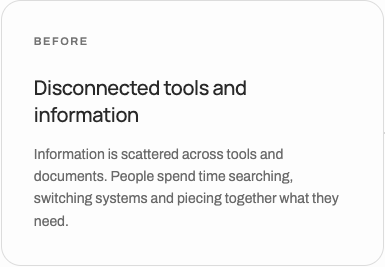
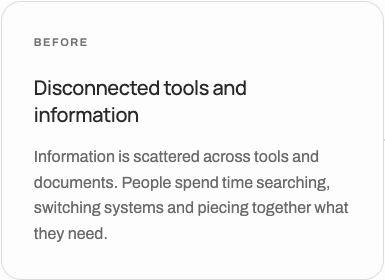
Publish updated body, helper and button typography

diff --git a/design-library.html b/design-library.html
@@ -19,7 +19,7 @@
 <div><div class="swatch" style="background:#fdfdfd"></div><strong>Paper</strong><code>--paper</code><small>#FDFDFD</small></div>
 </div></section>
 <section class="block" id="typography"><h2>Typography</h2>
-<p class="note">Manrope for headings. Archivo for body text, labels and actions.</p>
+<p class="note">Manrope for headings. Archivo Body (16px) for introductions, descriptions and prose. Archivo Small (14px) for helper text, office contact details, result counts and explanatory notes.</p>
 <div class="scroller"><table class="measures"><thead><tr><th>Text style</th><th>Token</th><th>Desktop rule</th><th>Mobile rule</th></tr></thead><tbody>
 <tr><td data-label="Text style"><span style="font:700 72px/1.15 Manrope">Display</span></td><td data-label="Token"><code>--type-display</code></td><td data-label="Desktop rule">clamp(44px,5.1vw,72px)</td><td data-label="Mobile rule">43px</td></tr>
 <tr><td data-label="Text style"><span style="font:500 64px/1.15 Manrope">Contact</span></td><td data-label="Token"><code>--type-contact</code></td><td data-label="Desktop rule">clamp(42px,4.7vw,64px)</td><td data-label="Mobile rule">43px</td></tr>
@@ -27,9 +27,10 @@
 <tr><td data-label="Text style"><span style="font:500 22px/1.15 Manrope">Title</span></td><td data-label="Token"><code>--type-title</code></td><td data-label="Desktop rule">22px</td><td data-label="Mobile rule">22px</td></tr>
 <tr><td data-label="Text style"><span style="font:500 20px/1.15 Manrope">Diagram</span></td><td data-label="Token"><code>--type-diagram</code></td><td data-label="Desktop rule">20px</td><td data-label="Mobile rule">20px</td></tr>
 <tr><td data-label="Text style"><span style="font:400 22px/1.15 Archivo">Quote</span></td><td data-label="Token"><code>--type-quote</code></td><td data-label="Desktop rule">22px</td><td data-label="Mobile rule">22px</td></tr>
-<tr><td data-label="Text style"><span style="font:400 16px/1.15 Archivo">Lead</span></td><td data-label="Token"><code>--type-lead</code></td><td data-label="Desktop rule">16px</td><td data-label="Mobile rule">15px</td></tr>
-<tr><td data-label="Text style"><span style="font:400 16px/1.15 Archivo">Body</span></td><td data-label="Token"><code>--type-body</code></td><td data-label="Desktop rule">16px</td><td data-label="Mobile rule">15px</td></tr>
+<tr><td data-label="Text style"><span style="font:400 16px/1.15 Archivo">Lead</span></td><td data-label="Token"><code>--type-lead</code></td><td data-label="Desktop rule">16px</td><td data-label="Mobile rule">16px</td></tr>
+<tr><td data-label="Text style"><span style="font:400 16px/1.15 Archivo">Body</span></td><td data-label="Token"><code>--type-body</code></td><td data-label="Desktop rule">16px</td><td data-label="Mobile rule">16px</td></tr>
 <tr><td data-label="Text style"><span style="font:400 14px/1.15 Archivo">Small</span></td><td data-label="Token"><code>--type-small</code></td><td data-label="Desktop rule">14px</td><td data-label="Mobile rule">14px</td></tr>
+<tr><td data-label="Text style"><span style="font:500 14px/1.15 Archivo">Button</span></td><td data-label="Token"><code>--type-button</code></td><td data-label="Desktop rule">14px</td><td data-label="Mobile rule">14px</td></tr>
 <tr><td data-label="Text style"><span style="font:400 13px/1.15 Archivo">Action</span></td><td data-label="Token"><code>--type-action</code></td><td data-label="Desktop rule">13px</td><td data-label="Mobile rule">13px</td></tr>
 <tr><td data-label="Text style"><span style="font:400 12px/1.15 Archivo">Caption</span></td><td data-label="Token"><code>--type-caption</code></td><td data-label="Desktop rule">12px</td><td data-label="Mobile rule">12px</td></tr>
 <tr><td data-label="Text style"><span style="font:400 11px/1.15 Archivo">Label</span></td><td data-label="Token"><code>--type-label</code></td><td data-label="Desktop rule">11px</td><td data-label="Mobile rule">11px</td></tr>
@@ -79,7 +80,7 @@
 <dt>Layout gap</dt><dd>28px</dd>
 </dl><details><summary>Full measurements</summary><dl>
 <dt>Margin</dt><dd>0px</dd>
-<dt>Width</dt><dd>262.109px</dd>
+<dt>Width</dt><dd>275.047px</dd>
 <dt>Height</dt><dd>48px</dd>
 <dt>Top border</dt><dd>0px none rgb(253, 253, 253)</dd>
 <dt>Grid columns</dt><dd>none</dd>
@@ -92,7 +93,7 @@
 <dt>Layout gap</dt><dd>28px</dd>
 </dl><details><summary>Full measurements</summary><dl>
 <dt>Margin</dt><dd>0px</dd>
-<dt>Width</dt><dd>200.781px / 262.109px</dd>
+<dt>Width</dt><dd>208.828px / 275.047px</dd>
 <dt>Height</dt><dd>48px</dd>
 <dt>Top border</dt><dd>1px solid rgb(41, 41, 41)</dd>
 <dt>Grid columns</dt><dd>none</dd>
@@ -105,7 +106,7 @@
 <dt>Layout gap</dt><dd>10px</dd>
 </dl><details><summary>Full measurements</summary><dl>
 <dt>Margin</dt><dd>0px</dd>
-<dt>Width</dt><dd>162.703px</dd>
+<dt>Width</dt><dd>172.766px</dd>
 <dt>Height</dt><dd>36.7969px</dd>
 <dt>Top border</dt><dd>0px none rgb(41, 41, 41)</dd>
 <dt>Grid columns</dt><dd>none</dd>
@@ -147,7 +148,7 @@
 </dl><details><summary>Full measurements</summary><dl>
 <dt>Margin</dt><dd>0px / 0px 8px</dd>
 <dt>Width</dt><dd>1512px / 374px</dd>
-<dt>Height</dt><dd>6427.97px / 11095.2px</dd>
+<dt>Height</dt><dd>6597.62px / 11682.7px</dd>
 <dt>Top border</dt><dd>0px none rgb(41, 41, 41)</dd>
 <dt>Grid columns</dt><dd>none</dd>
 </dl><code>.site-shell</code></details><a href="index.html">View source page ↗</a></div></article>
@@ -160,7 +161,7 @@
 </dl><details><summary>Full measurements</summary><dl>
 <dt>Margin</dt><dd>0px</dd>
 <dt>Width</dt><dd>1512px / 374px</dd>
-<dt>Height</dt><dd>1034.59px / 1385.23px</dd>
+<dt>Height</dt><dd>1092.22px / 1535.92px</dd>
 <dt>Top border</dt><dd>0px none rgb(41, 41, 41)</dd>
 <dt>Grid columns</dt><dd>none</dd>
 </dl><code>#capabilities</code></details><a href="index.html">View source page ↗</a></div></article>
@@ -173,7 +174,7 @@
 </dl><details><summary>Full measurements</summary><dl>
 <dt>Margin</dt><dd>0px</dd>
 <dt>Width</dt><dd>1300.34px / 329.125px</dd>
-<dt>Height</dt><dd>97.7812px / 131.391px</dd>
+<dt>Height</dt><dd>104.188px / 140.984px</dd>
 <dt>Top border</dt><dd>0px none rgb(41, 41, 41)</dd>
 <dt>Grid columns</dt><dd>556.969px 668.375px 35px / 297.125px 24px</dd>
 </dl><code>.cap-list button</code></details><a href="index.html">View source page ↗</a></div></article>
@@ -212,7 +213,7 @@
 </dl><details><summary>Full measurements</summary><dl>
 <dt>Margin</dt><dd>0px</dd>
 <dt>Width</dt><dd>412.109px / 329.125px</dd>
-<dt>Height</dt><dd>275.844px / 297.531px</dd>
+<dt>Height</dt><dd>285.453px / 307.141px</dd>
 <dt>Top border</dt><dd>0px none rgb(41, 41, 41)</dd>
 <dt>Grid columns</dt><dd>none</dd>
 </dl><code>.insights-grid article</code></details><a href="index.html">View source page ↗</a></div></article>
@@ -225,7 +226,7 @@
 </dl><details><summary>Full measurements</summary><dl>
 <dt>Margin</dt><dd>0px</dd>
 <dt>Width</dt><dd>252.953px / 155.562px</dd>
-<dt>Height</dt><dd>174.953px / 202.328px</dd>
+<dt>Height</dt><dd>184.562px / 218.344px</dd>
 <dt>Top border</dt><dd>0px none rgb(41, 41, 41)</dd>
 <dt>Grid columns</dt><dd>none</dd>
 </dl><code>.footer-location</code></details><a href="index.html">View source page ↗</a></div></article>
@@ -238,7 +239,7 @@
 </dl><details><summary>Full measurements</summary><dl>
 <dt>Margin</dt><dd>0px</dd>
 <dt>Width</dt><dd>425.438px / 329.125px</dd>
-<dt>Height</dt><dd>143.578px / 140.391px</dd>
+<dt>Height</dt><dd>149.984px / 175.578px</dd>
 <dt>Top border</dt><dd>1px solid rgb(222, 222, 222)</dd>
 <dt>Grid columns</dt><dd>339.438px 24px / 243.125px 24px</dd>
 </dl><code>.cap-list button</code></details><a href="home-grid.html">View source page ↗</a></div></article>
@@ -253,7 +254,7 @@
 </dl><details><summary>Full measurements</summary><dl>
 <dt>Margin</dt><dd>0px</dd>
 <dt>Width</dt><dd>383.328px / 329.125px</dd>
-<dt>Height</dt><dd>266.062px / 246.062px</dd>
+<dt>Height</dt><dd>278.875px / 258.875px</dd>
 <dt>Top border</dt><dd>1px solid rgb(220, 220, 220)</dd>
 <dt>Grid columns</dt><dd>none</dd>
 </dl><code>.bos-stage</code></details><a href="ai-bos.html">View source page ↗</a></div></article>
@@ -266,7 +267,7 @@
 </dl><details><summary>Full measurements</summary><dl>
 <dt>Margin</dt><dd>40px 0px 0px / 32px 0px 0px</dd>
 <dt>Width</dt><dd>1300.34px / 329.125px</dd>
-<dt>Height</dt><dd>550.453px / 1412.11px</dd>
+<dt>Height</dt><dd>620.859px / 1604.14px</dd>
 <dt>Top border</dt><dd>0px none rgb(41, 41, 41)</dd>
 <dt>Grid columns</dt><dd>none</dd>
 </dl><code>.bos-applied-case</code></details><a href="ai-bos.html">View source page ↗</a></div></article>
@@ -292,7 +293,7 @@
 </dl><details><summary>Full measurements</summary><dl>
 <dt>Margin</dt><dd>0px</dd>
 <dt>Width</dt><dd>414.766px / 329.125px</dd>
-<dt>Height</dt><dd>202.469px / 216.156px</dd>
+<dt>Height</dt><dd>234.469px / 222.562px</dd>
 <dt>Top border</dt><dd>0px none rgb(41, 41, 41)</dd>
 <dt>Grid columns</dt><dd>none</dd>
 </dl><code>.activity-card</code></details><a href="life-at-yopeso.html">View source page ↗</a></div></article>
@@ -318,7 +319,7 @@
 </dl><details><summary>Full measurements</summary><dl>
 <dt>Margin</dt><dd>0px</dd>
 <dt>Width</dt><dd>522.172px / 329.125px</dd>
-<dt>Height</dt><dd>60.0781px / 82.4688px</dd>
+<dt>Height</dt><dd>63.2812px / 88.875px</dd>
 <dt>Top border</dt><dd>0px none rgb(41, 41, 41)</dd>
 <dt>Grid columns</dt><dd>none</dd>
 </dl><code>.story-milestone</code></details><a href="our-story.html">View source page ↗</a></div></article>

diff --git a/design-library.css b/design-library.css
@@ -1,6 +1,6 @@
 *{box-sizing:border-box}html{scroll-padding:80px}body{margin:0;background:#fdfdfd;color:#292929;font:16px/1.5 Archivo,Arial,sans-serif}h1,h2,h3,p,dl,dd{margin:0}h1,h2,h3{font-family:Manrope,Arial,sans-serif}a{color:inherit}a:focus-visible,summary:focus-visible{outline:3px solid #525252;outline-offset:4px}header,main,footer{max-width:1450px;margin:auto;padding-inline:clamp(20px,5vw,84px)}header{height:84px;display:flex;align-items:center;justify-content:space-between;border-bottom:1px solid #dcdcdc}header img{width:114px}header span,.kicker,th,.role{font-size:11px;letter-spacing:1.5px;text-transform:uppercase;font-weight:600}.intro{display:grid;grid-template-columns:1.6fr 1fr;gap:40px;align-items:center;padding:64px 0 50px}.intro h1{font-size:clamp(44px,5vw,72px);line-height:1.03;letter-spacing:-3px;max-width:730px}.intro p{margin-top:18px;color:#6a6a6a;max-width:565px}.corners{display:flex;align-items:end;justify-content:end;gap:12px}.corner{width:clamp(68px,7vw,108px);text-align:center;font:12px/2 monospace}.corner i{display:block;background:#292929;height:78px}.corner:nth-child(2) i{background:#7a7a7a}.corner:nth-child(3) i{background:#dcdcdc}.tabs{position:sticky;top:0;z-index:3;background:#fdfdfdf5;border-block:1px solid #dcdcdc;display:flex;gap:32px;overflow:auto}.tabs a{padding:15px 0;text-decoration:none;white-space:nowrap;font-size:14px}.tabs a:hover{ text-decoration:underline}.block{padding:48px 0;border-bottom:1px solid #dcdcdc}.block h2{font-size:36px;letter-spacing:-1.6px;line-height:1.2;margin-bottom:24px}.palette{display:grid;grid-template-columns:repeat(6,1fr);gap:12px}.swatch{height:66px;border:1px solid #0001;border-radius:12px;margin-bottom:10px}.palette strong,.palette code,.palette small{display:block}.palette small,.note,dt{color:#666}code{font-size:12px;overflow-wrap:anywhere}.palette code{margin:4px 0}.type,.measures{width:100%;border-collapse:collapse;text-align:left}td,th{padding:12px 12px 12px 0;border-bottom:1px solid #ddd}td{font-size:14px}th{color:#666}.scroller{overflow:auto}.rule{display:inline-block;height:8px;background:#555;vertical-align:middle;margin-right:10px}.radii{display:flex;flex-wrap:wrap;gap:26px}.radius{flex:1;min-width:135px}.radius i{display:block;width:76px;height:52px;background:#eaeaea;border:1px solid #aaa;margin-bottom:12px}.radius p{font-size:14px;color:#666}.note{margin:-10px 0 22px}.cards{display:grid;grid-template-columns:repeat(3,minmax(0,1fr));gap:20px;align-items:start}.card{border:1px solid #dcdcdc;border-radius:18px;overflow:hidden}.preview{height:168px;background:#f3f3f3;display:grid;place-items:center;padding:18px;border-bottom:1px solid #ddd}.preview img{max-width:100%;max-height:132px;object-fit:contain}.spec{padding:18px}.spec h3{font-size:20px;letter-spacing:-.6px}.role{color:#666;font-size:10px;margin-bottom:5px}.spec dl{display:grid;grid-template-columns:auto 1fr;gap:6px 12px;font-size:13px;margin:14px 0}.spec dd{text-align:right;overflow-wrap:anywhere}summary,.spec a{font-size:13px;cursor:pointer}.spec a{display:inline-block;margin-top:12px}.family{font-size:23px;margin:28px 0 15px}.source{margin-top:20px}footer{padding-block:28px;color:#666;font-size:13px}@media(max-width:880px){.cards{grid-template-columns:repeat(2,minmax(0,1fr))}.palette{grid-template-columns:repeat(3,1fr)}.corners{display:none}.intro{display:block}}@media(max-width:580px){.cards{grid-template-columns:1fr}.tabs{gap:20px}.intro{padding:36px 0}.block{padding:32px 0}.palette{grid-template-columns:repeat(2,1fr)}}
 
-.tertiary-example{display:inline-flex;align-items:center;gap:10px;padding:8px 0;font:500 13px/1.6 Archivo,Arial,sans-serif;color:#292929;text-decoration:none}
+.tertiary-example{display:inline-flex;align-items:center;gap:10px;padding:8px 0;font:500 14px/1.3rem Archivo,Arial,sans-serif;color:#292929;text-decoration:none}
 .tertiary-example svg{width:16px;height:16px;margin-left:4px}
 .tertiary-example:hover{text-decoration:underline;text-underline-offset:5px}
 .block{padding-block:64px}
@@ -21,3 +21,7 @@
  .measures td:has(.rule){display:flex;gap:8px}
  .measures td:has(.rule)::before{width:76px}
 }
+
+.radius p { font-size: 16px; }
+
+.note { font-size: 14px; }

diff --git a/typography.css b/typography.css
@@ -8,7 +8,7 @@
  --type-contact:clamp(42px,4.7vw,64px);
  --type-section:clamp(32px,3.3vw,47px);
  --type-title:22px;--type-diagram:20px;--type-lead:var(--type-body);
- --type-body:16px;--type-small:14px;--type-action:13px;
+ --type-button:14px;--type-body:16px;--type-small:14px;--type-action:13px;
  --type-caption:12px;--type-label:11px;--type-category:var(--type-label);
  --leading-heading:1.13;--leading-title:1.35;--leading-body:1.7;
  --tracking-section:-1.8px;--tracking-display:-3px;
@@ -44,7 +44,7 @@ nav button{font-family:var(--font-body);font-weight:var(--weight-medium)}
 .value-rail{font-family:var(--font-body);font-size:var(--type-small);font-weight:var(--weight-medium)}
 @media(max-width:760px){
  :root{--type-display:43px;--type-contact:43px;--type-section:34px;
- --type-body:15px;--tracking-section:-1.4px;--tracking-display:-1.9px}
+ --tracking-section:-1.4px;--tracking-display:-1.9px}
  .hero-invite{font-size:var(--type-caption)}
  .cap-list p,.company-numbers dt{font-size:var(--type-action)}
  .value-rail{font-size:var(--type-action)}
@@ -76,3 +76,36 @@ nav button,.hero-invite,.proof p,.lab-options p,.section-bottom,.contact-context
 
 .hero h1{font-weight:700;max-width:1100px}
 @media(min-width:761px){.hero h1>span{display:block}}
+
+/* Body copy across page templates, including compact card and diagram layouts. */
+p:not(.sr-only, .activity-status), .role-detail article li, .lab-options > div:not(.eyebrow) {
+  font-size: var(--paragraph-size, var(--type-body)) !important;
+}
+
+/* Supporting copy qualifies an action, reports a result, or supplies contact details. */
+.hero-invite,
+.footer-location,
+.footer-brand,
+.dialog-note,
+.bos-note,
+.bos-confidentiality,
+.lab-options p,
+#role-count,
+.no-roles p {
+  --paragraph-size: var(--type-small);
+}
+
+.footer-location .office-email,
+.office-slide address {
+  font-size: var(--type-small);
+}
+
+/* Retain the original control heights and padding as labels grow. */
+.button.primary, .button.secondary, .text-link, .insight-arrow {
+  font-size: var(--type-button);
+  line-height: 1.3rem;
+}
+.button.secondary { line-height: 1.25rem; }
+@media (max-width: 360px) {
+  .hero .actions .button { gap: 16px; }
+}
